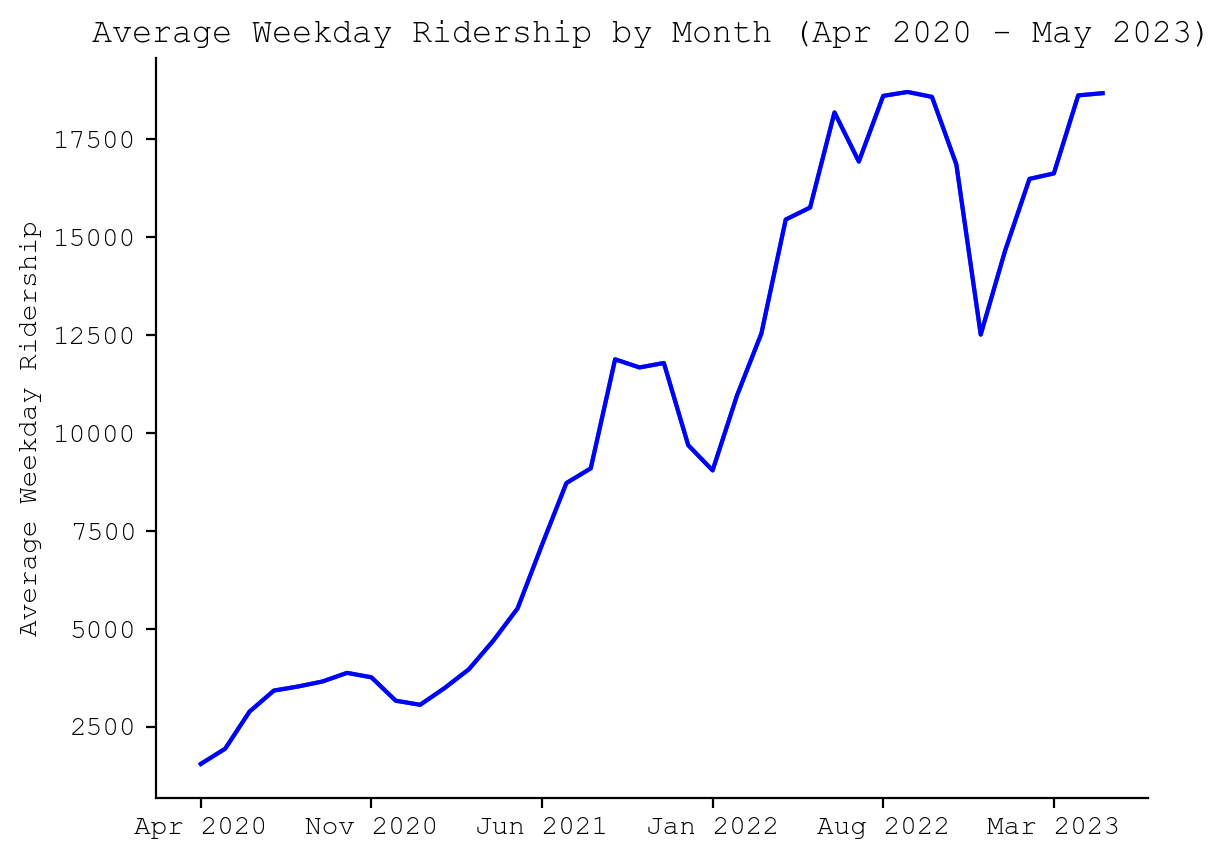
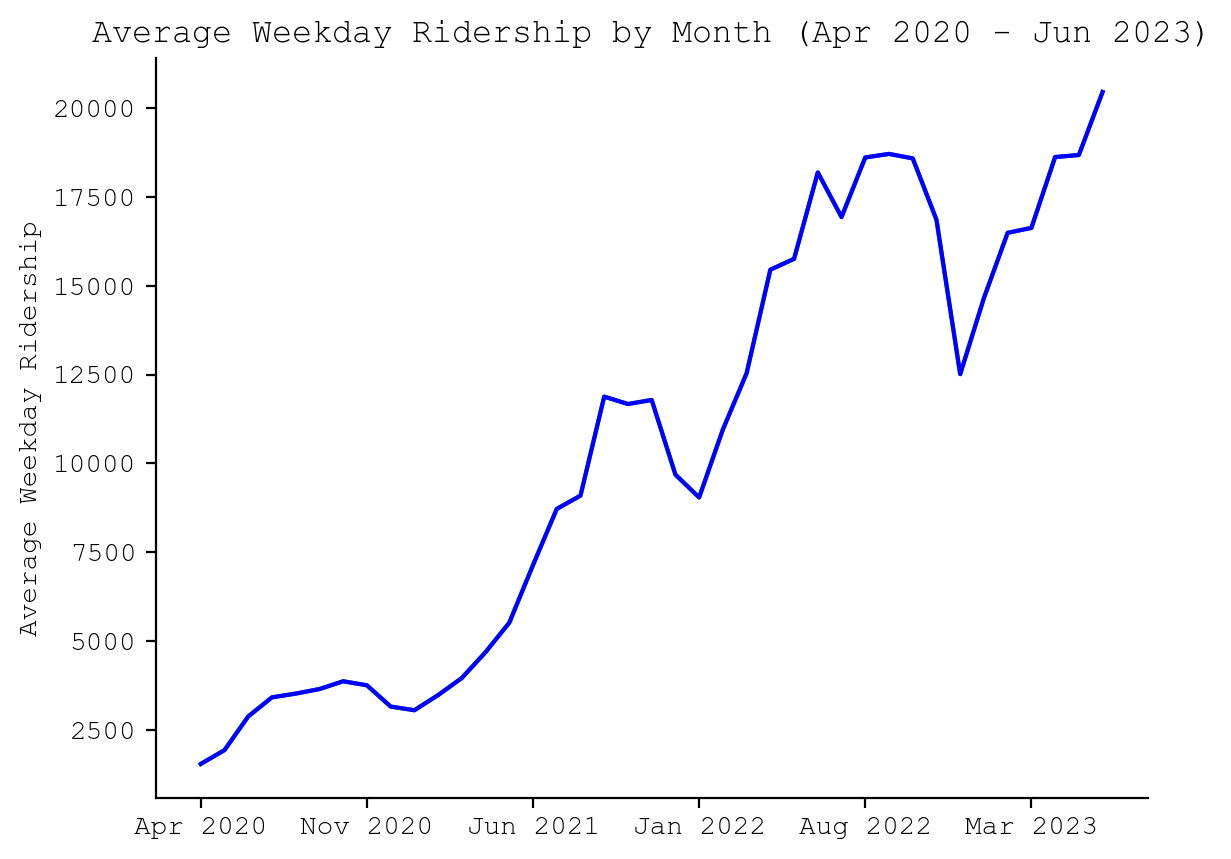
add jun 2023

diff --git a/site/index.html b/site/index.html
@@ -9,10 +9,10 @@
 </head>
 <body>
     <h1>Caltrain Ridership</h1>
-    <p><em>Last updated: 2023-07-13</em></p>    
+    <p><em>Last updated: 2023-07-27</em></p>    
     <p>
-        This site contains graphs and a table of Caltrain's average weekday ridership from Jul 2017 to May 2023 sourced from <a href="https://www.caltrain.com/past-board-meetings">Caltrain Board of Directors meeting agendas</a>.
-        Average weekday ridership is reported with a 1-month lag, so the most recent data is from May 2023.
+        This site contains graphs and a table of Caltrain's average weekday ridership from Jul 2017 to Jun 2023 sourced from <a href="https://www.caltrain.com/past-board-meetings">Caltrain Board of Directors meeting agendas</a>.
+        Average weekday ridership is reported with a 1-month lag, so the most recent data is from Jun 2023.
     </p>
     <p>
         You can find a <a href="https://github.com/iechevarria/caltrain-ridership/blob/main/ridership.csv">CSV</a> of Caltrain's average weekday ridership and the script to generate this site on <a href="https://github.com/iechevarria/caltrain-ridership">GitHub</a>.
@@ -32,6 +32,10 @@
     <tr>
         <td>Month</td>
         <td>Average weekday ridership</td>
+    </tr>
+    <tr>
+        <td>Jun 2023</td>
+        <td>20452</td>
     </tr>
     <tr>
         <td>May 2023</td>
